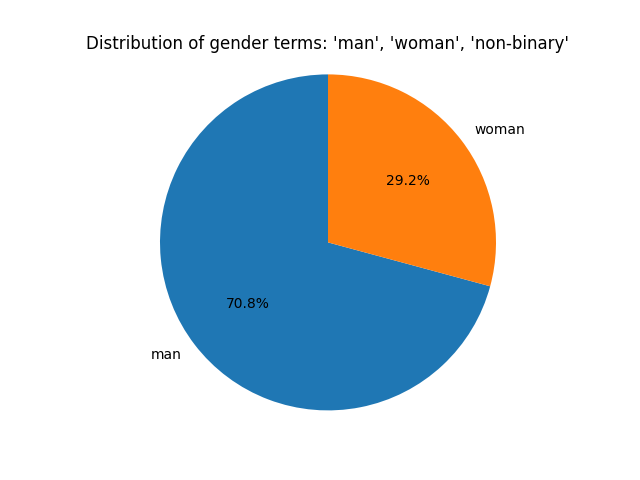
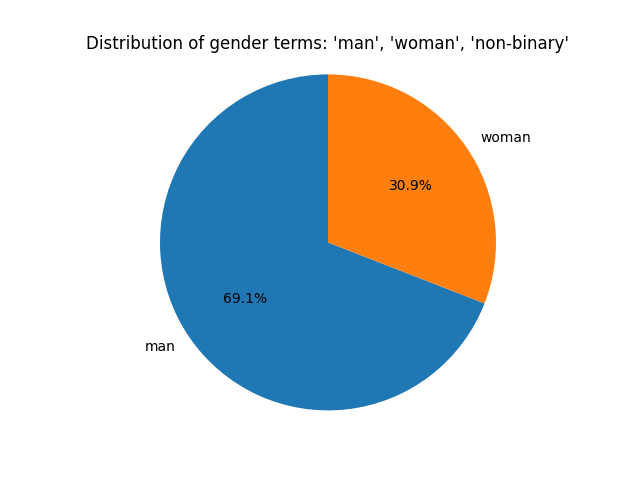
Full 10BT sample results for counts

diff --git a/counts.py b/counts.py
@@ -7,7 +7,7 @@ from sklearn.feature_extraction.text import CountVectorizer
 from datatrove.pipeline.readers import ParquetReader
 
 ## Load fineweb
-data_reader = ParquetReader("hf://datasets/HuggingFaceFW/fineweb/sample/10BT", progress=True, limit=100000)
+data_reader = ParquetReader("hf://datasets/HuggingFaceFW/fineweb/sample/10BT", progress=True)
 corpus = map(lambda doc: doc.text, data_reader())
 
 ## Compute frequencies
@@ -54,7 +54,7 @@ for religion in ['muslim', 'christian', 'jewish', 'hindu', 'buddhist', 'atheist'
         religion_dict[religion] = vocab_dict[religion]
     except KeyError:
         pass
-to_pie_chart("religion", religion_dict, "Distribution of religion terms: 'muslim', 'christian', 'jewish', 'hindu', 'buddhist', 'atheist'")
+to_pie_chart("religion", religion_dict, "Distribution of religion terms")# 'muslim', 'christian', 'jewish', 'hindu', 'buddhist', 'atheist'")
 
 ## Age
 age_dict = {}
